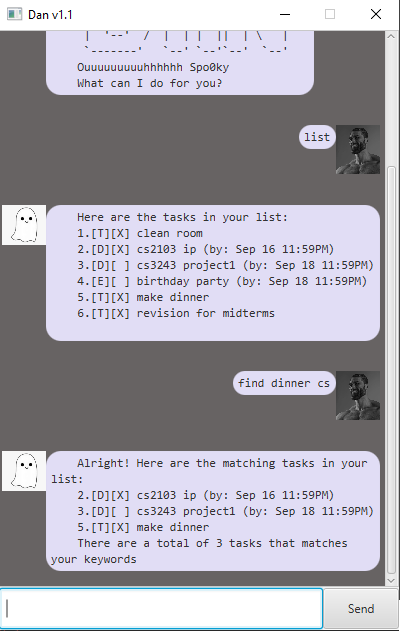
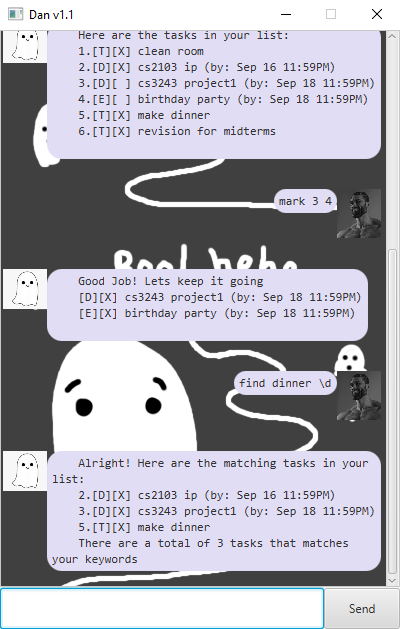
Add background to GUI

diff --git a/src/main/resources/style/style.css b/src/main/resources/style/style.css
@@ -1,0 +1,3 @@
+.dialog {
+	-fx-background-image:url('../images/ghostbg.png');
+}
